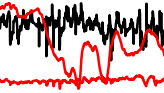
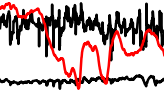
Small fix

Changed region(s): [[0.0, 0.7957, 1.0, 0.9677]]

diff --git a/plot_weather.py b/plot_weather.py
@@ -1,6 +1,6 @@
 import pandas as pd
 import matplotlib.pyplot as plt
-import matplotlib.dates as mdates
+import matplotlib.gridspec as gridspec
 
 '''
 uses weather.csv to plot the weather data, plotting the temperature and humidity on the same graph
@@ -19,7 +19,7 @@ def plot_data(df):
 
     # plot temperature, humidity and pressure on the same graph
     fig, ax = plt.subplots(1, 1, figsize=((212/dpi), (122/dpi)), sharex=True, dpi=dpi)
-    ax.plot(df['timestamp'], df['temperature'], 'r')
+    ax.plot(df['timestamp'], df['temperature'], 'black')
     ax.plot(df['timestamp'], df['humidity'], 'black')
 
     # plit pressure on a second y-axis
@@ -38,6 +38,9 @@ def plot_data(df):
 
     # Make the graph fill the whole figure
     #plt.tight_layout()
+
+    # Use gridspec to fix the aspect ratio of the graph
+    gs = gridspec.GridSpec(212, 122)
     
     # Save plot to file
     plt.savefig('weather.png', bbox_inches='tight', pad_inches=0)
